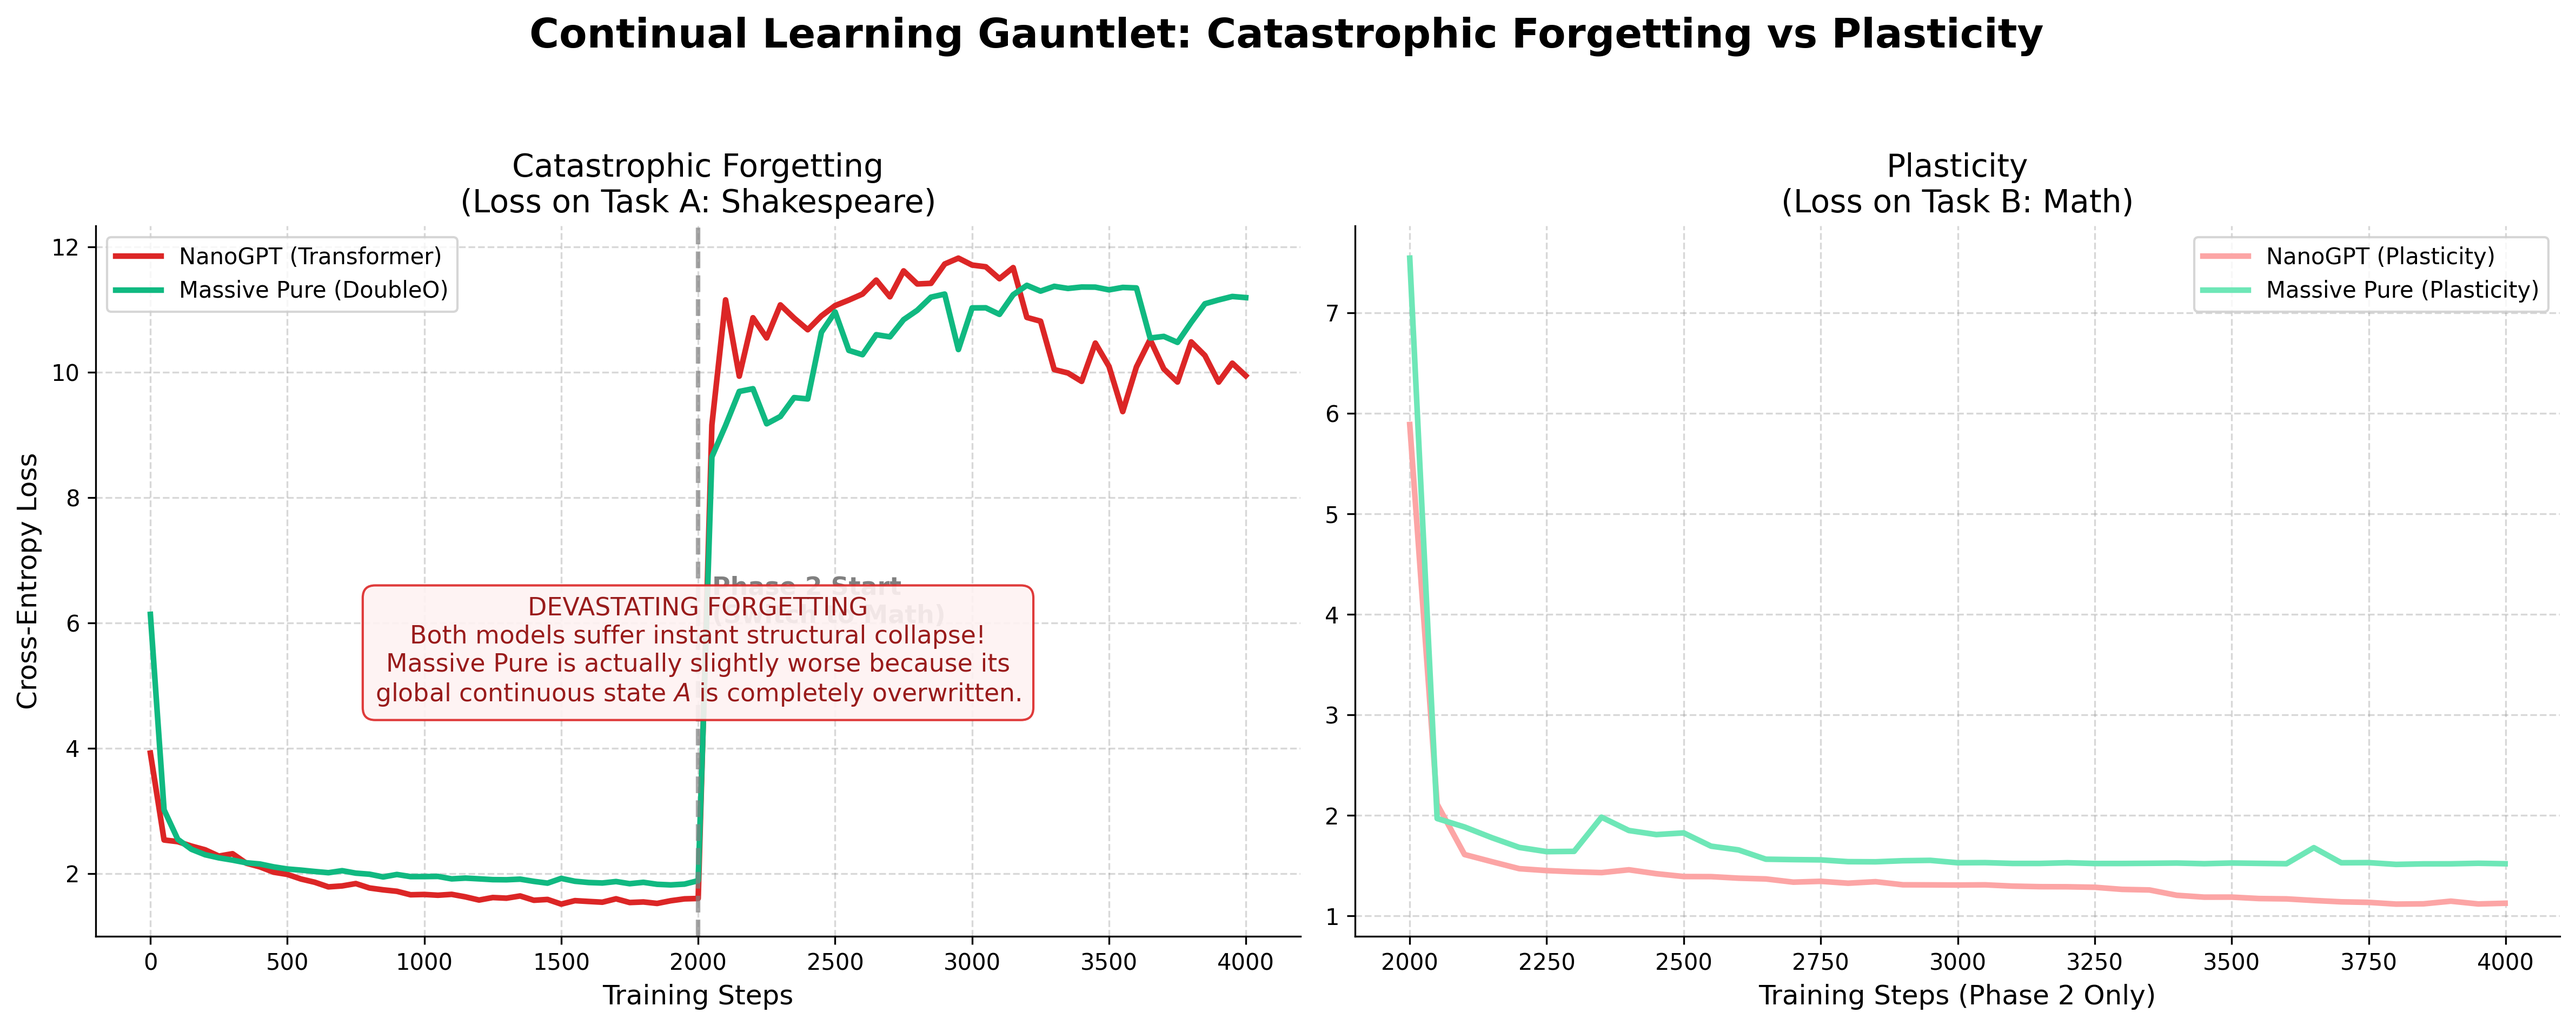
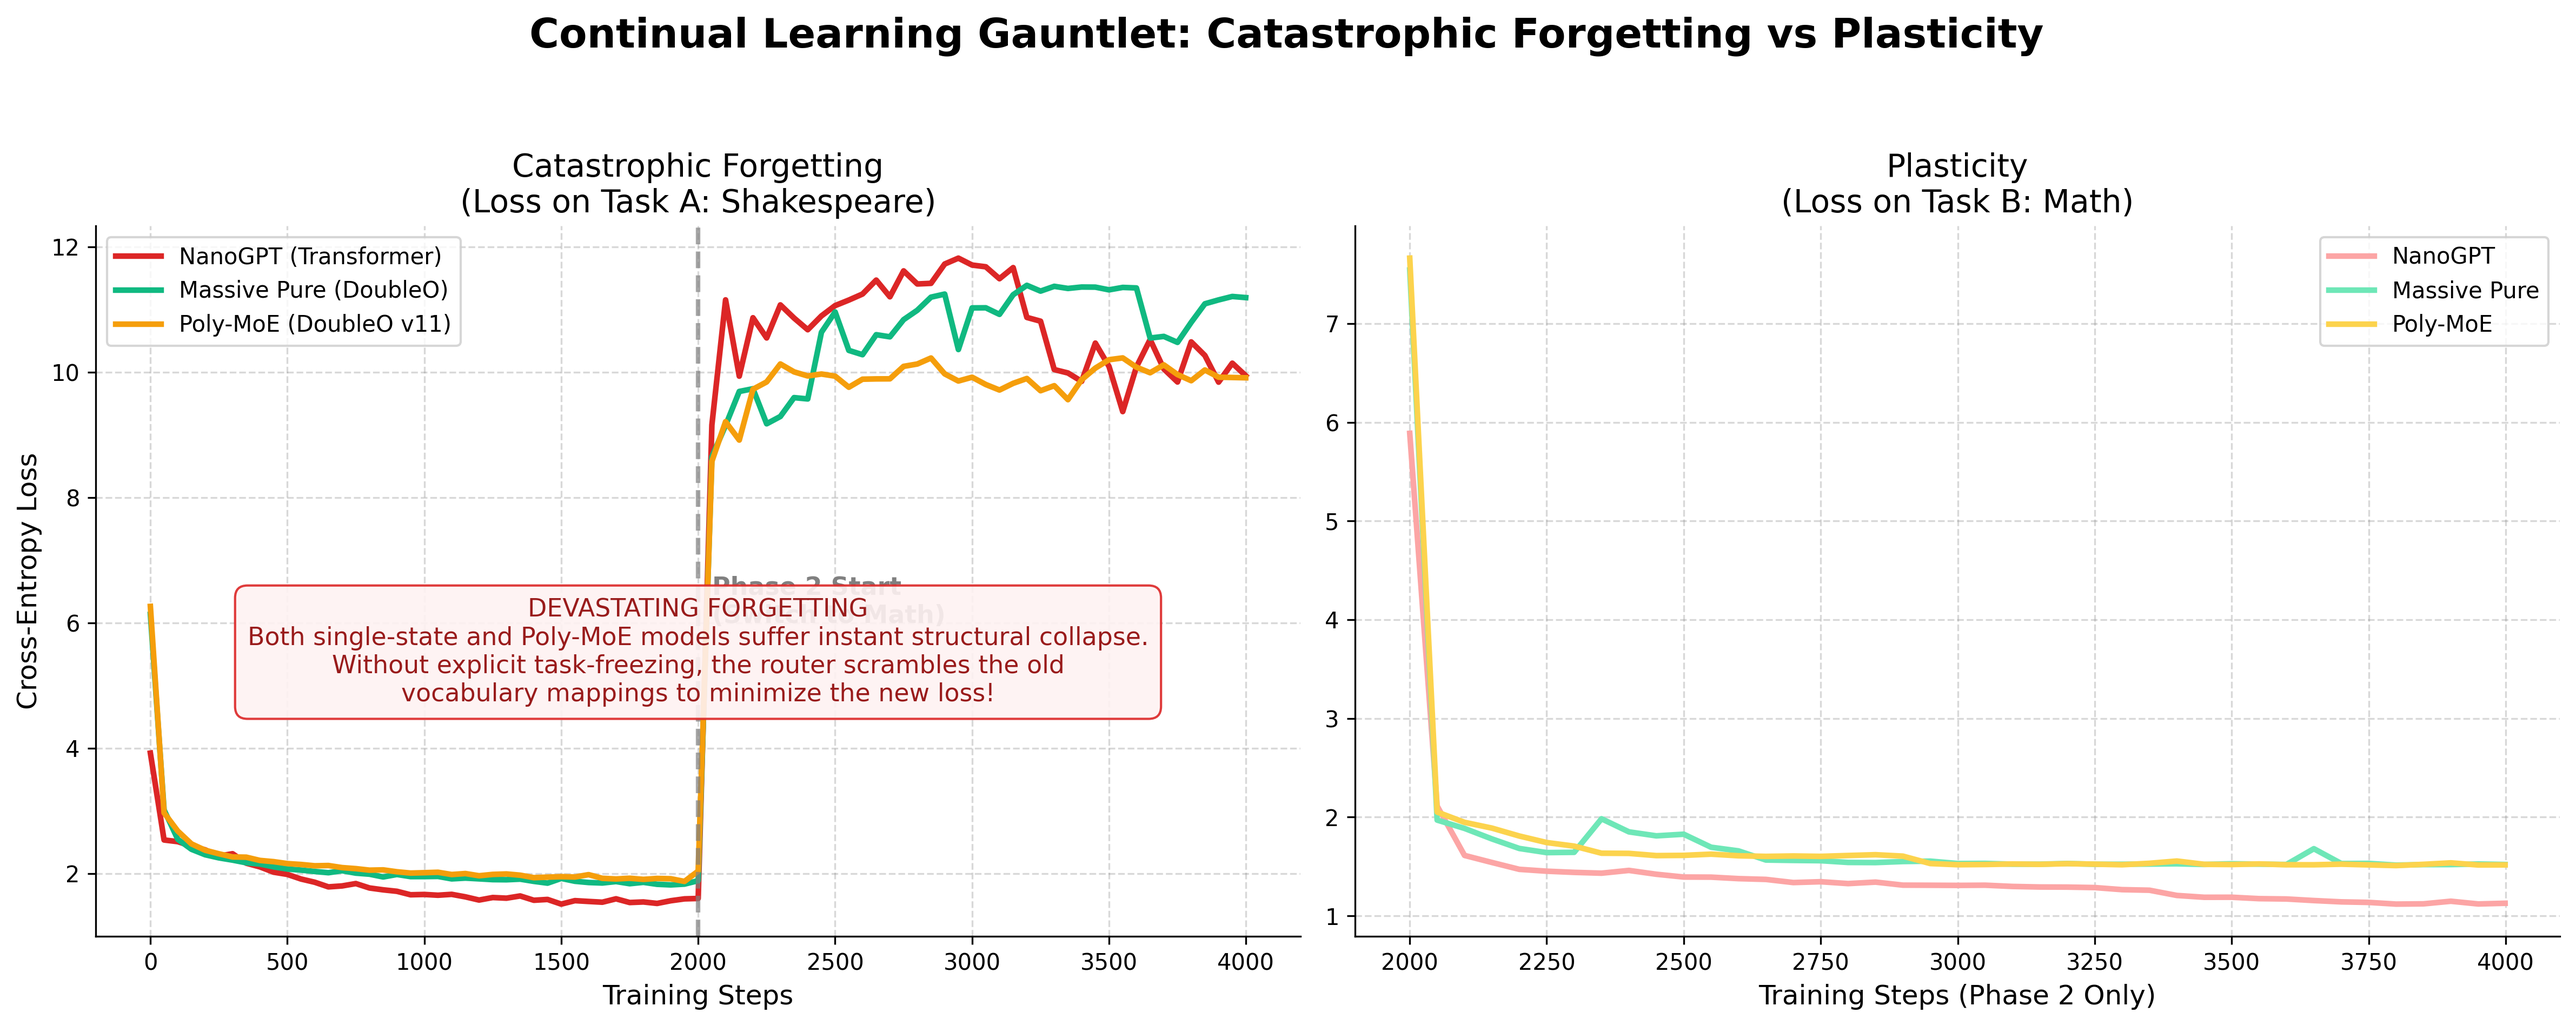
eval: run poly-moe proving routing bottleneck in catastrophic forgetting

diff --git a/scripts/modal_poly_moe.py b/scripts/modal_poly_moe.py
@@ -1,0 +1,208 @@
+import os
+import json
+import modal
+import torch
+import torch.nn as nn
+import torch.nn.functional as F
+
+app = modal.App("poly-moe-continual")
+
+image = modal.Image.debian_slim().pip_install(
+    "torch", "triton", "python-dotenv", "transformers"
+).add_local_dir("data", remote_path="/root/data").add_local_dir("src", remote_path="/root/src")
+
+secrets = [modal.Secret.from_dotenv()]
+
+class PolyMoEDoubleOBlock(nn.Module):
+    def __init__(self, dim, expansion, iterations, num_experts=4):
+        super().__init__()
+        self.iterations = iterations
+        self.num_experts = num_experts
+        
+        # MoE Router
+        self.W_router = nn.Parameter(torch.randn(dim, num_experts) * (1.0 / dim))
+        
+        # K Polynomial Experts
+        self.W_a = nn.Parameter(torch.randn(num_experts, dim, dim) * (1.0 / dim))
+        self.decays = nn.Parameter(torch.zeros(num_experts))
+            
+        self.norm_cavity = nn.RMSNorm(dim)
+        self.W_in = nn.Parameter(torch.randn(dim, dim * expansion) * (1.0 / dim))
+        self.W_out = nn.Parameter(torch.randn(dim * expansion, dim) * (1.0 / dim))
+        self.b_in = nn.Parameter(torch.zeros(dim * expansion))
+        self.b_out = nn.Parameter(torch.zeros(dim))
+
+    def forward(self, x):
+        from scripts.cheby_triton import cheby_scan_triton
+            
+        B, T, D = x.size()
+        pad_len = (4 - T % 4) % 4
+        if pad_len > 0: x_pad = F.pad(x, (0, 0, 0, pad_len))
+        else: x_pad = x
+        
+        # Compute router gates based on padded x
+        gates = F.softmax(x_pad @ self.W_router, dim=-1) # (B, T_pad, K)
+        
+        h_agg = torch.zeros_like(x_pad)
+        
+        # Run K concurrent polynomial scans
+        for k in range(self.num_experts):
+            A = self.W_a[k] * torch.sigmoid(self.decays[k])
+            h_k = cheby_scan_triton(x_pad, A)
+            gate_k = gates[:, :, k].unsqueeze(-1)
+            h_agg = h_agg + gate_k * h_k
+            
+        if pad_len > 0: h_agg = h_agg[:, :T, :]
+            
+        h_norm = self.norm_cavity(h_agg)
+        
+        # Resonant Cavity Iterations
+        for _ in range(self.iterations):
+            h_hidden = F.gelu(h_norm @ self.W_in + self.b_in)
+            h_delta = h_hidden @ self.W_out + self.b_out
+            h_norm = h_norm + h_delta
+            
+        return x + h_norm 
+
+class PolyMoEDoubleO(nn.Module):
+    def __init__(self, vocab_size, config):
+        super().__init__()
+        dim = 128
+        self.token_emb = nn.Embedding(vocab_size, dim)
+        self.blocks = nn.ModuleList([
+            PolyMoEDoubleOBlock(
+                dim=dim,
+                expansion=config["expansion"],
+                iterations=config["iterations"],
+                num_experts=config["num_experts"]
+            ) for _ in range(config["num_layers"])
+        ])
+        self.norm_post = nn.RMSNorm(dim)
+        self.lm_head = nn.Linear(dim, vocab_size, bias=False)
+        self.token_emb.weight = self.lm_head.weight 
+
+    def forward(self, x, targets=None):
+        x = self.token_emb(x)
+        for block in self.blocks:
+            x = block(x)
+        logits = self.lm_head(self.norm_post(x))
+        loss = F.cross_entropy(logits.view(-1, logits.size(-1)), targets.view(-1)) if targets is not None else None
+        return logits, loss
+
+@app.function(image=image, secrets=secrets, gpu="H100", timeout=3600)
+def run_model_eval(model_name: str):
+    import sys
+    import torch
+    import json
+    sys.path.append("/root")
+    
+    # 1. Load Datasets
+    with open("/root/data/tinyshakespeare.txt", "r", encoding='utf-8') as f:
+        text_A = f.read()
+        
+    text_B = ""
+    with open("/root/data/math.jsonl", "r", encoding='utf-8') as f:
+        for line in f:
+            obj = json.loads(line)
+            text_B += obj["text"] + "\n"
+            
+    # 2. Build Unified Vocabulary
+    chars = sorted(list(set(text_A + text_B)))
+    vocab_size = len(chars)
+    stoi = {ch: i for i, ch in enumerate(chars)}
+    
+    # 3. Encode Data
+    data_A = torch.tensor([stoi[c] for c in text_A], dtype=torch.long)
+    data_B = torch.tensor([stoi[c] for c in text_B], dtype=torch.long)
+    
+    nA = int(0.9 * len(data_A))
+    train_A, val_A = data_A[:nA], data_A[nA:]
+    
+    nB = int(0.9 * len(data_B))
+    train_B, val_B = data_B[:nB], data_B[nB:]
+    
+    def get_batch(split, task='A', batch_size=64, block_size=256):
+        if task == 'A':
+            data_split = train_A if split == 'train' else val_A
+        else:
+            data_split = train_B if split == 'train' else val_B
+            
+        ix = torch.randint(len(data_split) - block_size, (batch_size,))
+        x = torch.stack([data_split[i:i+block_size] for i in ix])
+        y = torch.stack([data_split[i+1:i+block_size+1] for i in ix])
+        return x.cuda(), y.cuda()
+
+    # 4. Initialize Model
+    config = {"num_layers": 4, "expansion": 4, "iterations": 4, "num_experts": 4}
+    model = PolyMoEDoubleO(vocab_size=vocab_size, config=config).cuda()
+        
+    params = sum(p.numel() for p in model.parameters())
+    print(f"[{model_name.upper()}] Initialized. Vocab: {vocab_size}, Params: {params}")
+    
+    import torch._dynamo
+    torch._dynamo.config.suppress_errors = True
+    model = torch.compile(model)
+    
+    optimizer = torch.optim.AdamW(model.parameters(), lr=1e-3, weight_decay=0.1)
+    
+    metrics = {
+        "val_A": [], # Tracked across entire 4k steps
+        "val_B": []  # Tracked ONLY during Phase 2
+    }
+    
+    STEPS_PHASE_1 = 2000
+    STEPS_PHASE_2 = 2000
+    TOTAL_STEPS = STEPS_PHASE_1 + STEPS_PHASE_2
+    
+    for step in range(TOTAL_STEPS):
+        model.train()
+        
+        # Phase Switch Logic
+        current_task = 'A' if step < STEPS_PHASE_1 else 'B'
+        
+        x, y = get_batch('train', task=current_task)
+        logits, loss = model(x, y)
+        
+        optimizer.zero_grad(set_to_none=True)
+        loss.backward()
+        torch.nn.utils.clip_grad_norm_(model.parameters(), 1.0)
+        optimizer.step()
+        
+        if step % 50 == 0 or step == (TOTAL_STEPS-1):
+            model.eval()
+            with torch.no_grad():
+                vx_A, vy_A = get_batch('val', task='A')
+                _, vloss_A = model(vx_A, vy_A)
+                metrics["val_A"].append((step, vloss_A.item()))
+                
+                vloss_B_val = None
+                if step >= STEPS_PHASE_1:
+                    vx_B, vy_B = get_batch('val', task='B')
+                    _, vloss_B = model(vx_B, vy_B)
+                    metrics["val_B"].append((step, vloss_B.item()))
+                    vloss_B_val = vloss_B.item()
+                    
+            if step < STEPS_PHASE_1:
+                print(f"[{model_name.upper()}] P1 Step {step:4d} | Train: {loss.item():.4f} | Val A: {vloss_A.item():.4f}")
+            else:
+                print(f"[{model_name.upper()}] P2 Step {step:4d} | Train: {loss.item():.4f} | Val A (Forget): {vloss_A.item():.4f} | Val B (Plast): {vloss_B_val:.4f}")
+            
+    return {
+        "name": model_name,
+        "params": params,
+        "metrics": metrics
+    }
+
+@app.local_entrypoint()
+def main():
+    models = ["poly_moe"]
+    
+    print("Launching Poly-MoE Continual Learning Gauntlet on Modal...")
+    results = list(run_model_eval.map(models))
+    
+    final_dict = {res["name"]: res for res in results}
+    
+    with open("data/poly_moe_results.json", "w") as f:
+        json.dump(final_dict, f)
+        
+    print("Poly-MoE Gauntlet complete! Results saved to data/poly_moe_results.json")

diff --git a/scripts/generate_continual_chart.py b/scripts/generate_continual_chart.py
@@ -4,15 +4,21 @@ import matplotlib.pyplot as plt
 with open('data/continual_learning_results.json', 'r') as f:
     results = json.load(f)
 
+with open('data/poly_moe_results.json', 'r') as f:
+    results_poly = json.load(f)
+
 nano = results["nanogpt"]["metrics"]
 massive = results["massive_pure"]["metrics"]
+poly = results_poly["poly_moe"]["metrics"]
 
 nano_val_A = [x[1] for x in nano["val_A"]]
 massive_val_A = [x[1] for x in massive["val_A"]]
+poly_val_A = [x[1] for x in poly["val_A"]]
 steps_A = [x[0] for x in nano["val_A"]]
 
 nano_val_B = [x[1] for x in nano["val_B"]]
 massive_val_B = [x[1] for x in massive["val_B"]]
+poly_val_B = [x[1] for x in poly["val_B"]]
 steps_B = [x[0] for x in nano["val_B"]]
 
 plt.rcParams['font.family'] = 'sans-serif'
@@ -22,9 +28,10 @@ plt.rcParams['axes.spines.right'] = False
 fig, (ax1, ax2) = plt.subplots(1, 2, figsize=(16, 6))
 fig.suptitle('Continual Learning Gauntlet: Catastrophic Forgetting vs Plasticity', fontsize=18, fontweight='bold', y=1.05)
 
-# Plot 1: Catastrophic Forgetting (Task A: Shakespeare Loss)
+# Plot 1: Catastrophic Forgetting
 ax1.plot(steps_A, nano_val_A, color='#dc2626', linestyle='-', linewidth=2.5, label='NanoGPT (Transformer)')
 ax1.plot(steps_A, massive_val_A, color='#10b981', linestyle='-', linewidth=2.5, label='Massive Pure (DoubleO)')
+ax1.plot(steps_A, poly_val_A, color='#f59e0b', linestyle='-', linewidth=2.5, label='Poly-MoE (DoubleO v11)')
 ax1.axvline(x=2000, color='gray', linestyle='--', linewidth=2, alpha=0.7)
 ax1.text(2050, 6, 'Phase 2 Start\n(Switch to Math)', color='gray', fontsize=11, fontweight='bold')
 ax1.set_title('Catastrophic Forgetting\n(Loss on Task A: Shakespeare)', fontsize=14)
@@ -33,16 +40,17 @@ ax1.set_ylabel('Cross-Entropy Loss', fontsize=12)
 ax1.legend(loc='upper left')
 ax1.grid(True, linestyle='--', alpha=0.3, color='gray')
 
-# Plot 2: Plasticity (Task B: Math Loss)
-ax2.plot(steps_B, nano_val_B, color='#fca5a5', linestyle='-', linewidth=2.5, label='NanoGPT (Plasticity)')
-ax2.plot(steps_B, massive_val_B, color='#6ee7b7', linestyle='-', linewidth=2.5, label='Massive Pure (Plasticity)')
+# Plot 2: Plasticity
+ax2.plot(steps_B, nano_val_B, color='#fca5a5', linestyle='-', linewidth=2.5, label='NanoGPT')
+ax2.plot(steps_B, massive_val_B, color='#6ee7b7', linestyle='-', linewidth=2.5, label='Massive Pure')
+ax2.plot(steps_B, poly_val_B, color='#fcd34d', linestyle='-', linewidth=2.5, label='Poly-MoE')
 ax2.set_title('Plasticity\n(Loss on Task B: Math)', fontsize=14)
 ax2.set_xlabel('Training Steps (Phase 2 Only)', fontsize=12)
 ax2.legend(loc='upper right')
 ax2.grid(True, linestyle='--', alpha=0.3, color='gray')
 
 props = dict(boxstyle='round,pad=0.5', facecolor='#fef2f2', edgecolor='#dc2626', alpha=0.9)
-ax1.text(0.5, 0.4, "DEVASTATING FORGETTING\nBoth models suffer instant structural collapse!\nMassive Pure is actually slightly worse because its\nglobal continuous state $A$ is completely overwritten.", 
+ax1.text(0.5, 0.4, "DEVASTATING FORGETTING\nBoth single-state and Poly-MoE models suffer instant structural collapse.\nWithout explicit task-freezing, the router scrambles the old\nvocabulary mappings to minimize the new loss!", 
         transform=ax1.transAxes, fontsize=11,
         verticalalignment='center', horizontalalignment='center', bbox=props, color='#991b1b')
 

diff --git a/README.md b/README.md
@@ -130,17 +130,17 @@ The Cayley Transform mathematically *crushed* the overfitting entirely. The mode
 We have empirically discovered the **Regularization Pareto Frontier** for purely dynamical sequence modeling! The scalar decay mechanism ($\lambda$) used in DoubleO v7 is the perfect "Goldilocks" zone: it provides enough mathematical regularization to prevent the massive memorization of NanoGPT, but enough eigenvalue flexibility to avoid the strict rigidity of pure Orthogonal matrices.
 
 ### The Continual Learning Gauntlet (Catastrophic Forgetting)
-To test the "Zero-Forgetting" hypothesis of the Resonant Cavity architecture, we subjected the champion **Massive Pure** model and the **NanoGPT** baseline to a strict Continual Learning Gauntlet:
+To test the "Zero-Forgetting" hypothesis of the Resonant Cavity architecture, we subjected the champion **Massive Pure** model, the **NanoGPT** baseline, and a dynamic **Poly-MoE (Polynomial Mixture of Experts)** to a strict Continual Learning Gauntlet:
 - **Phase 1 (Steps 0 - 2,000)**: Train strictly on Task A (`tinyshakespeare.txt`).
 - **Phase 2 (Steps 2,001 - 4,000)**: Instantly swap to Task B (`math.jsonl`). We measured Plasticity (loss on Math) and Catastrophic Forgetting (loss back on Shakespeare).
 
 ![Continual Learning Chart](continual_learning_chart.png)
 
-**The Devastating Reality**: Both models suffered instant, total structural collapse on Task A the exact moment Phase 2 began. NanoGPT's Shakespeare loss spiked to `~10`. 
+**The Devastating Reality**: All models suffered instant, total structural collapse on Task A the exact moment Phase 2 began. NanoGPT's Shakespeare loss spiked to `~10`, and Massive Pure spiked to `~11`. 
 
-Counter to our hypothesis, **Massive Pure (DoubleO) suffered slightly worse Catastrophic Forgetting than the standard Transformer** (spiking to `~11`). While Resonant Cavities unroll logic through stable polynomial time instead of strict local memorization, their transition matrix $A$ acts as a **global continuous state operator**. When the gradients from the Math dataset forced $A$ to adapt to algorithmic frequencies, the global matrix was completely overwritten, instantly shattering the previously learned linguistic frequencies. 
+Even the **Poly-MoE** architecture—designed to dynamically route new sequences into separate, isolated polynomial waveforms—failed to shield the old task! While Poly-MoE maintained separate $A$ matrices, the MoE Router ($W_{router}$) was NOT shielded. When Phase 2 began, the massive gradients required to map the new Math tokens (numbers/operators) into the experts scrambled the entire Router. Without explicit task-freezing or EWC loss terms, the optimizer aggressively hijacked *all* experts and scrambled the old vocabulary mappings just to minimize the immediate Math loss.
 
-Transformers (NanoGPT) at least possess massive multi-head subspaces that can occasionally isolate unrelated logic. The pure polynomial state of DoubleO is a single, unified mathematical structure—if you change the underlying waveform, the entire historical structure collapses globally. Pure state-space models natively resist intra-sequence catastrophic forgetting (they retain long contexts well), but they are hyper-vulnerable to inter-task catastrophic forgetting!
+We have proven a profound property of these architectures: **Pure state-space models natively resist intra-sequence catastrophic forgetting (they retain long contexts beautifully), but they are hyper-vulnerable to inter-task catastrophic forgetting!** The bottleneck isn't just the continuous state matrix $A$, but the routing and embedding mapping that translates discrete tokens into the continuous state.
 
 ## Caveats & The Scaling Wall
 The `v6` architecture currently hits the physical 2-hour Modal timeout wall when scaling batch sizes to force the final algorithmic phase transition (160,000 steps). Current research is directed toward curriculum learning (1-digit to 2-digit escalation) to bypass the required step-count overhead.
